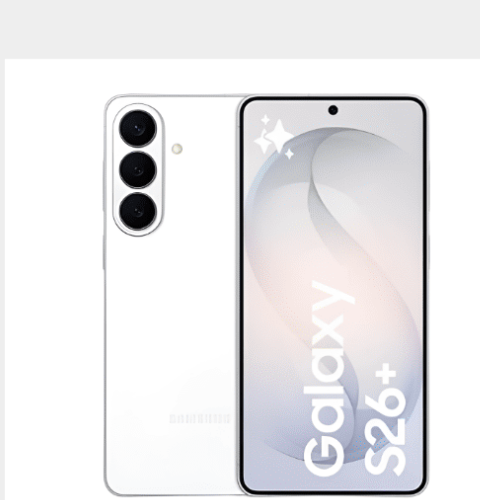
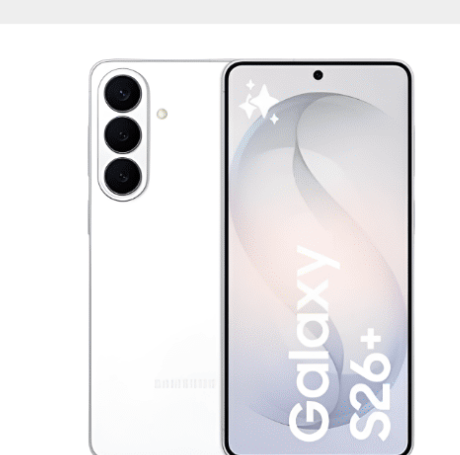
/plus: FLAGSHIP 3카드 이미지 재크롭(상단 노이즈 제거) + 표시 영역 확대(padding 축소 + scale 1.08)

Changed region(s): [[0.1826, 0.1231, 0.913, 1.0], [0.6391, 0.6462, 0.7304, 0.7385]]

diff --git a/plus/index.html b/plus/index.html
@@ -286,8 +286,8 @@ footer{padding:16px 0 68px;text-align:center;font-size:10px;color:#bbb;border-to
 .flag-grid{display:grid;grid-template-columns:1fr 1fr;gap:12px}
 .flag-card{background:#fff;border:1.5px solid var(--bdr);border-radius:16px;overflow:hidden;box-shadow:0 4px 14px rgba(0,0,0,.05);display:flex;flex-direction:column}
 .flag-card.wide{grid-column:1 / -1}
-.flag-img{position:relative;aspect-ratio:1/1.05;overflow:hidden;display:flex;align-items:center;justify-content:center;padding:10px}
-.flag-img img{width:100%;height:100%;object-fit:contain;position:relative;z-index:1}
+.flag-img{position:relative;aspect-ratio:1/1.05;overflow:hidden;display:flex;align-items:center;justify-content:center;padding:4px;background:#fff}
+.flag-img img{width:100%;height:100%;object-fit:contain;position:relative;z-index:1;transform:scale(1.08)}
 .flag-card.wide .flag-img{aspect-ratio:16/9;padding:16px}
 .flag-card.wide .flag-img img{max-height:100%;width:auto}
 .flag-tag{position:absolute;top:10px;left:10px;background:rgba(255,255,255,.95);color:#241b36;padding:5px 10px;border-radius:999px;font-size:10px;font-weight:900;letter-spacing:-.01em;z-index:2;box-shadow:0 2px 6px rgba(0,0,0,.15)}
